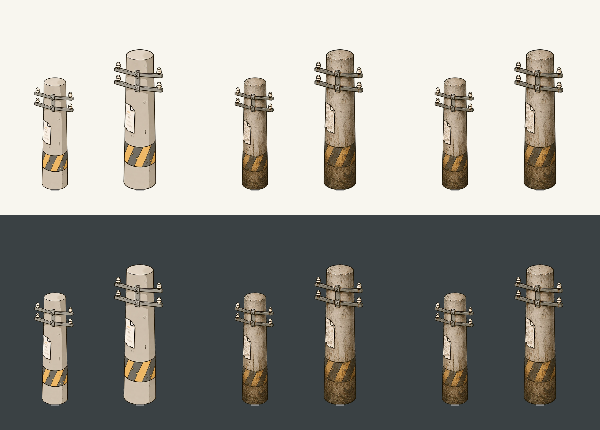
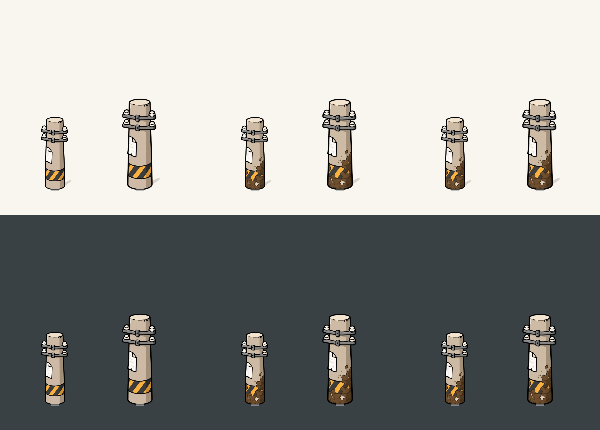
지도에서 전봇대가 크고 세밀하게 보이던 것을 작은 코믹 그림으로 바꾼다
본체를 65%로 축소하고 밑동 기준점과 마커 사각형은 유지한다. 두 상태에 같은 짧은 사선 고깔 그림자를 합성하며 거의 투명한 생성 잡음이 반입 크기를 바꾸지 않게 한다.

대상 테스트 13개와 디버그 빌드 통과. 에뮬레이터 MainActivity 지도 표시 및 설치 APK의 두 이미지 해시 일치 확인.

diff --git a/app/src/main/java/com/daengs/app/map/layers/territory/TerritoryMarkerIcon.kt b/app/src/main/java/com/daengs/app/map/layers/territory/TerritoryMarkerIcon.kt
@@ -3,6 +3,11 @@ package com.daengs.app.map.layers.territory
 import android.content.Context
 import android.graphics.Bitmap
 import android.graphics.BitmapFactory
+import android.graphics.Canvas
+import android.graphics.Color
+import android.graphics.Paint
+import android.graphics.Path
+import android.graphics.RectF
 import androidx.annotation.DrawableRes
 import com.daengs.app.R
 import kotlin.math.roundToInt
@@ -13,6 +18,8 @@ internal object TerritoryPoleArt {
     const val HEIGHT = 640
     const val ANCHOR_X = .5f
     const val ANCHOR_Y = 624f / HEIGHT
+    // 그림만 축소한다. SDK 선택 범위와 확대 시 밑동 기준점은 유지한다.
+    const val ART_SCALE = .65f
 
     fun size(selected: Boolean, scale: Float = 1f): Pair<Int, Int> {
         val width = ((if (selected) 60 else 48) * scale).roundToInt()
@@ -28,5 +35,27 @@ internal object TerritoryPoleArt {
 }
 
 /** 점유 여부만 그림으로 표시한다. 인증 여부는 기존 지도 caption/카드가 담당한다. */
-internal fun territoryMarkerIcon(context: Context, occupancy: TerritoryMarkerOccupancy): Bitmap =
-    checkNotNull(BitmapFactory.decodeResource(context.resources, TerritoryPoleArt.resource(occupancy)))
+internal fun territoryMarkerIcon(context: Context, occupancy: TerritoryMarkerOccupancy): Bitmap {
+    val source = checkNotNull(BitmapFactory.decodeResource(context.resources, TerritoryPoleArt.resource(occupancy)))
+    val result = Bitmap.createBitmap(TerritoryPoleArt.WIDTH, TerritoryPoleArt.HEIGHT, Bitmap.Config.ARGB_8888)
+    val canvas = Canvas(result)
+    val paint = Paint(Paint.ANTI_ALIAS_FLAG or Paint.FILTER_BITMAP_FLAG)
+    // 팔 없는 짧고 뭉뚝한 고깔 그림자. 두 상태에 같은 방향·18% 알파를 쓴다.
+    paint.color = Color.argb(46, 80, 65, 51)
+    canvas.drawPath(Path().apply {
+        moveTo(112f, 618f)
+        lineTo(204f, 573f)
+        quadTo(216f, 569f, 210f, 581f)
+        lineTo(148f, 624f)
+        quadTo(130f, 626f, 112f, 618f)
+        close()
+    }, paint)
+    paint.color = Color.WHITE
+    val scale = TerritoryPoleArt.ART_SCALE
+    val left = 128f * (1f - scale)
+    val top = 624f * (1f - scale)
+    canvas.drawBitmap(source, null, RectF(left, top,
+        left + source.width * scale, top + source.height * scale), paint)
+    source.recycle()
+    return result
+}

diff --git a/app/src/test/java/com/daengs/app/map/layers/territory/TerritoryPoleArtTest.kt b/app/src/test/java/com/daengs/app/map/layers/territory/TerritoryPoleArtTest.kt
@@ -31,7 +31,7 @@ class TerritoryPoleArtTest {
 
     @Test fun `투명 배경과 밑동 접점이 두 상태에서 유지된다`() {
         TerritoryMarkerOccupancy.entries.forEach { state ->
-            val bitmap = territoryMarkerIcon(context, state)
+            val bitmap = BitmapFactory.decodeResource(context.resources, TerritoryPoleArt.resource(state))
             assertEquals(TerritoryPoleArt.WIDTH, bitmap.width)
             assertEquals(TerritoryPoleArt.HEIGHT, bitmap.height)
             for (y in 0 until bitmap.height) {
@@ -42,6 +42,23 @@ class TerritoryPoleArtTest {
             assertTrue(Color.alpha(bitmap.getPixel(128, 622)) > 200)
             assertTrue("흰 포스터는 배경으로 지워지면 안 된다", Color.alpha(bitmap.getPixel(75, 330)) > 200)
         }
+    }
+
+    @Test fun `그림만 작아지고 옅은 사선 그림자는 밑동 오른쪽에 붙는다`() {
+        TerritoryMarkerOccupancy.entries.forEach { state ->
+            val bitmap = territoryMarkerIcon(context, state)
+            val inkRows = (0 until bitmap.height).filter { y ->
+                (0 until bitmap.width).any { x -> Color.alpha(bitmap.getPixel(x, y)) > 128 }
+            }
+            assertTrue("본체 높이는 이전 600px의 약 65%", inkRows.size in 380..395)
+            assertTrue("축소해도 발은 같은 지리 좌표", inkRows.last() in 622..624)
+            assertEquals(0, Color.alpha(bitmap.getPixel(128, 200)))
+            assertEquals(46, Color.alpha(bitmap.getPixel(198, 583)))
+            assertEquals(0, Color.alpha(bitmap.getPixel(58, 583)))
+            assertEquals(0, Color.alpha(bitmap.getPixel(220, 560)))
+        }
+        assertEquals(48 to 120, TerritoryPoleArt.size(false))
+        assertEquals(60 to 150, TerritoryPoleArt.size(true))
     }
 
     @Test fun `선택 및 성공 확대에서도 세로 비율과 접점이 유지된다`() {

diff --git a/app/src/main/java/com/daengs/app/map/provider/naver/NaverTerritoryLayer.kt b/app/src/main/java/com/daengs/app/map/provider/naver/NaverTerritoryLayer.kt
@@ -19,8 +19,8 @@ private data class SiteOverlays(val marker: Marker, val ring: CircleOverlay?, va
 internal fun NaverTerritoryLayer(map: NaverMap?, sites: List<TerritorySiteMarkerState>, onSelect: (String) -> Unit) {
     val context = androidx.compose.ui.platform.LocalContext.current
     val icons = remember(context) {
-        TerritoryMarkerOccupancy.entries.map(TerritoryPoleArt::resource).distinct().associateWith {
-            OverlayImage.fromResource(it)
+        TerritoryMarkerOccupancy.entries.distinctBy(TerritoryPoleArt::resource).associate {
+            TerritoryPoleArt.resource(it) to OverlayImage.fromBitmap(territoryMarkerIcon(context, it))
         }
     }
     val overlays = remember(map) { mutableMapOf<String, SiteOverlays>() }

diff --git a/tools/map_sprite.py b/tools/map_sprite.py
@@ -29,12 +29,15 @@ def prepare_map_sprite(source: Path) -> Image.Image:
                     pixels[x, y] = (0, 0, 0, 0)
         if sum(outside) < image.width * image.height * .1:
             raise ValueError("지도 마커 바깥 배경을 분리할 수 없습니다. 알파 입력을 사용하세요.")
-    bounds = image.getbbox()
+    # 생성 알파의 거의 투명한 먼지로 크기·밑면이 달라지지 않게 한다.
+    # 실제 픽셀의 알파(외곽 안티앨리어싱)는 그대로 보존한다.
+    silhouette = image.getchannel("A").point(lambda alpha: 255 if alpha > 16 else 0)
+    bounds = silhouette.getbbox()
     if bounds is None:
         raise ValueError("빈 지도 마커입니다.")
     left, top, right, bottom = bounds
     # 기울어진 가로대가 좌우 중심을 바꿔도 기둥 밑면 중심은 같은 좌표에 둔다.
-    foot_bounds = image.crop((0, max(top, bottom - 12), image.width, bottom)).getbbox()
+    foot_bounds = silhouette.crop((0, max(top, bottom - 12), image.width, bottom)).getbbox()
     foot_x = (foot_bounds[0] + foot_bounds[2]) / 2
     content = image.crop(bounds)
     scale = min(224 / content.width, 600 / content.height)

diff --git a/tools/test_map_sprite.py b/tools/test_map_sprite.py
@@ -42,3 +42,15 @@ class MapSpriteTest(unittest.TestCase):
             Image.new("RGBA", (20, 20)).save(source)
             with self.assertRaises(ValueError):
                 prepare_map_sprite(source)
+
+    def test_nearly_transparent_noise_does_not_move_foot_or_change_scale(self):
+        with TemporaryDirectory() as directory:
+            source = Path(directory) / "sprite.png"
+            image = Image.new("RGBA", (100, 240))
+            ImageDraw.Draw(image).rectangle((30, 10, 70, 230), fill=(150, 130, 110, 255))
+            image.save(source)
+            clean = prepare_map_sprite(source)
+            image.putpixel((2, 239), (0, 0, 0, 1))
+            image.putpixel((98, 1), (0, 0, 0, 16))
+            image.save(source)
+            self.assertEqual(clean.tobytes(), prepare_map_sprite(source).tobytes())
